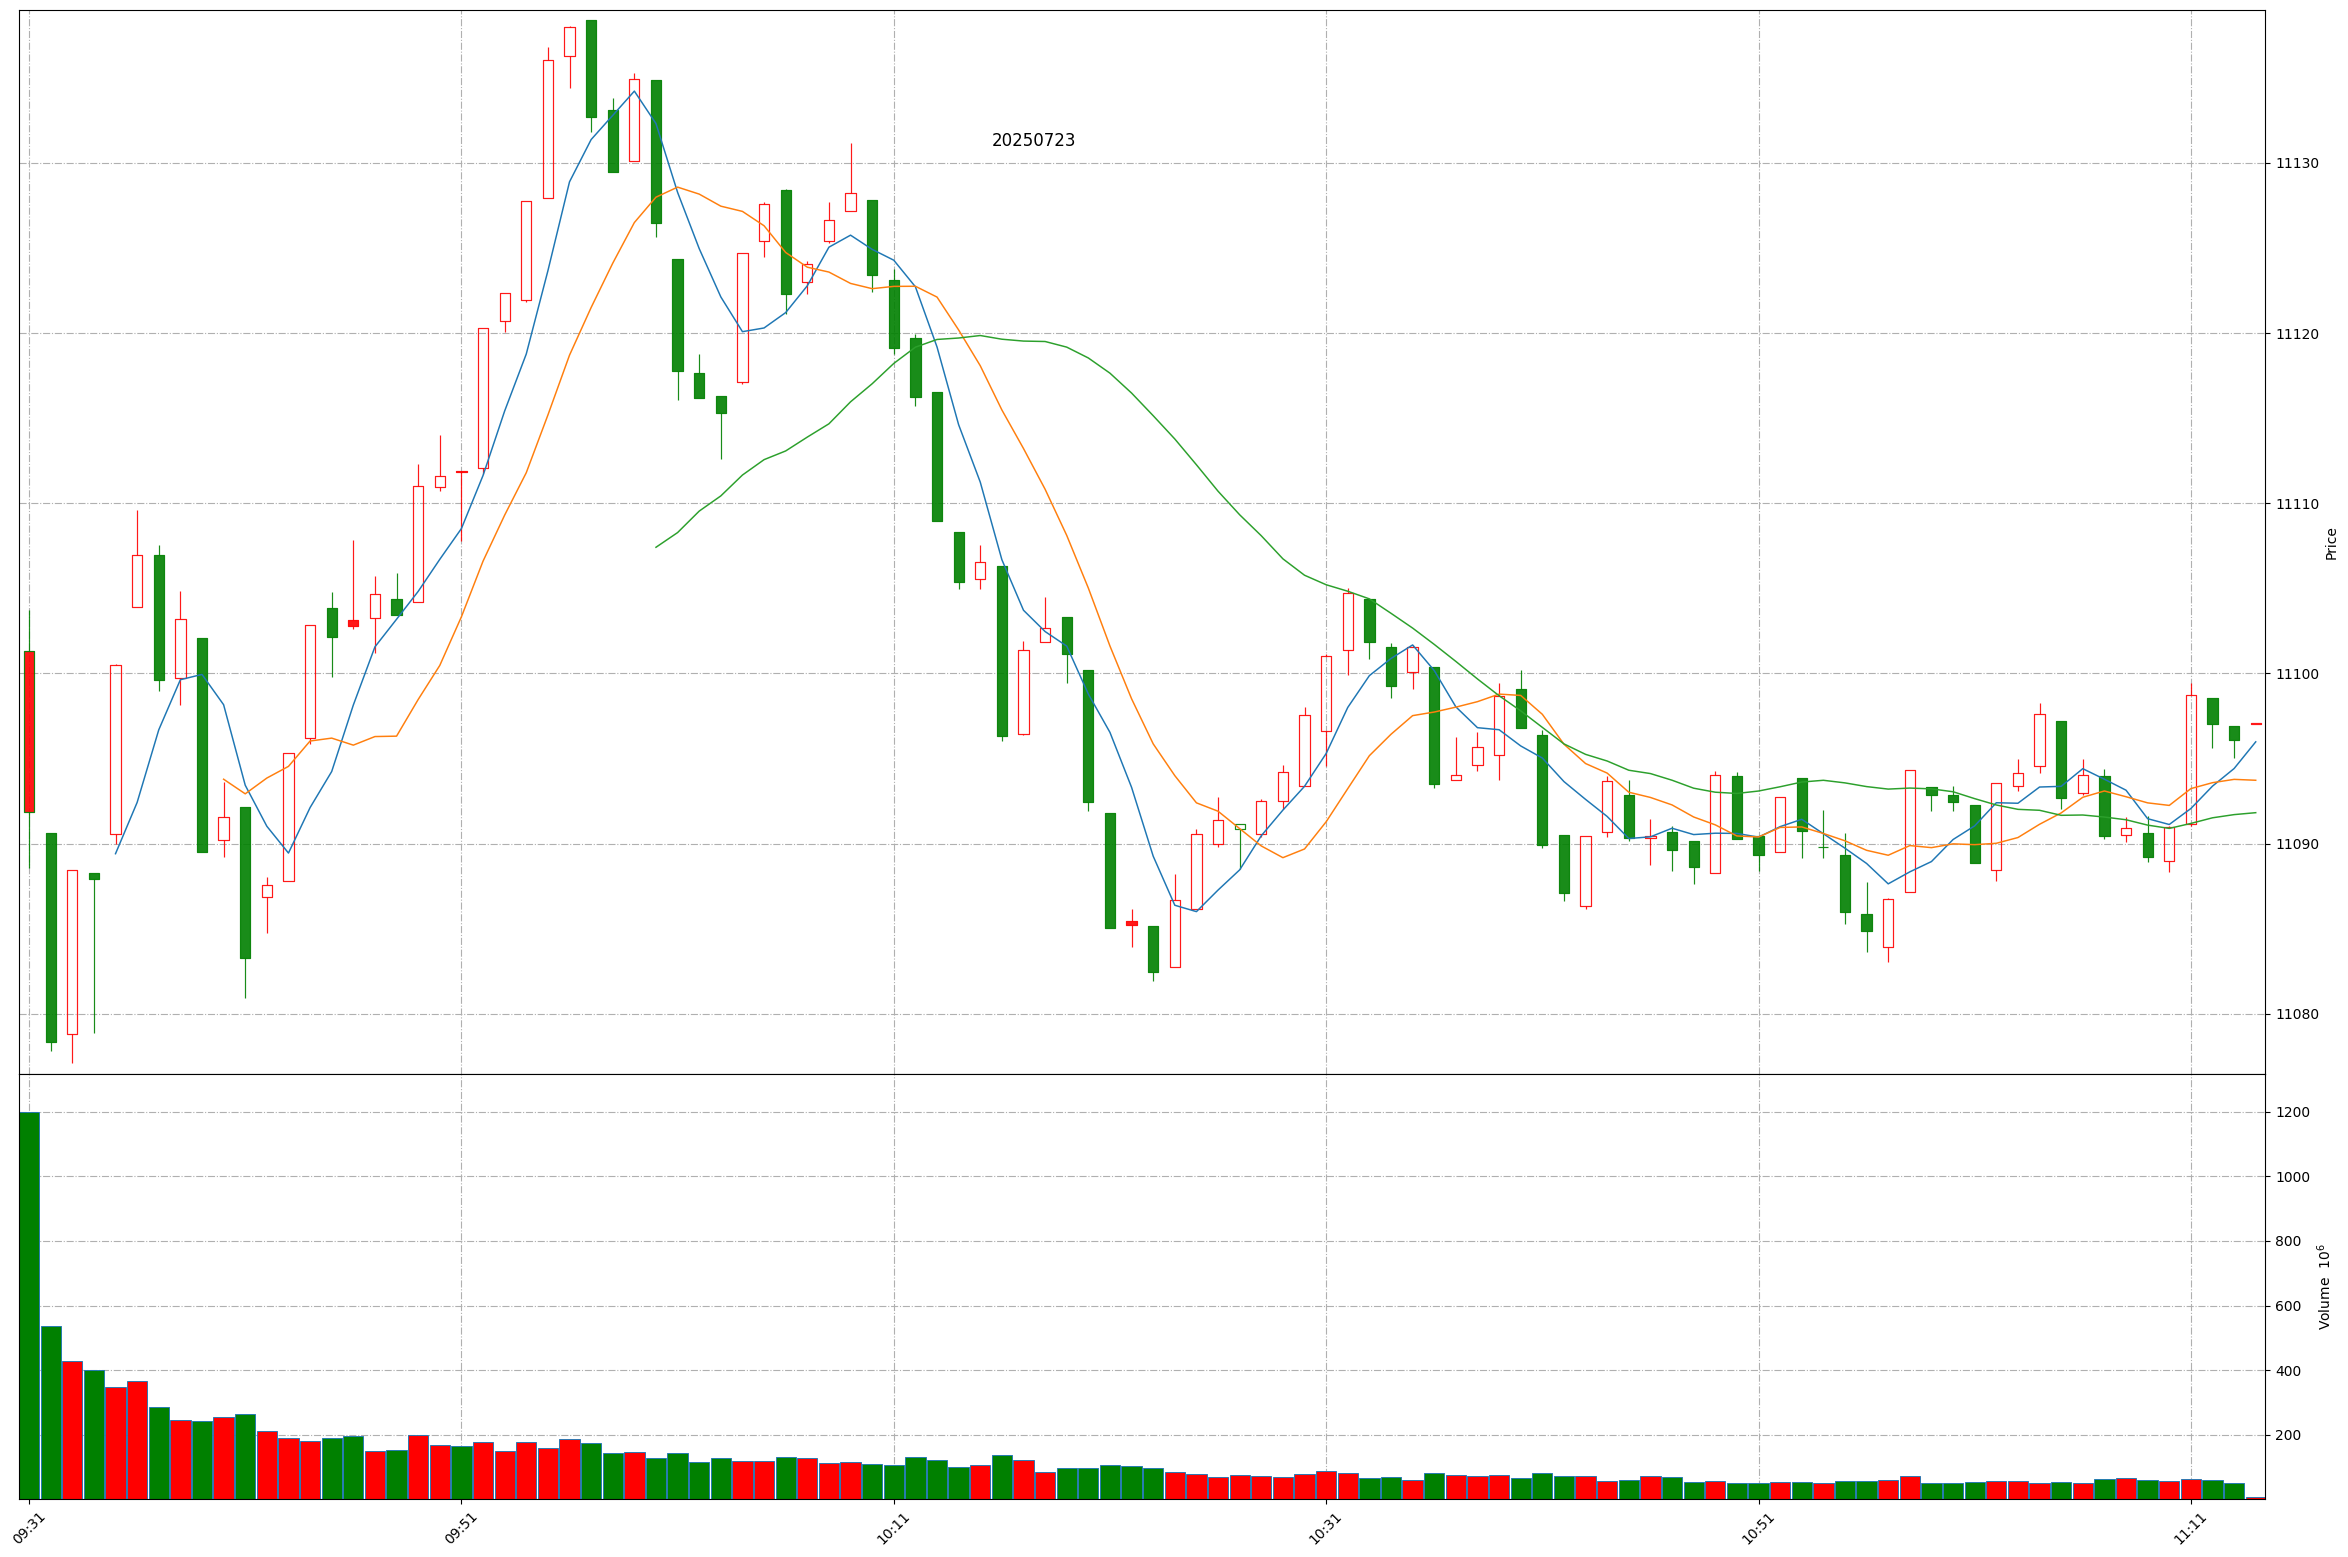
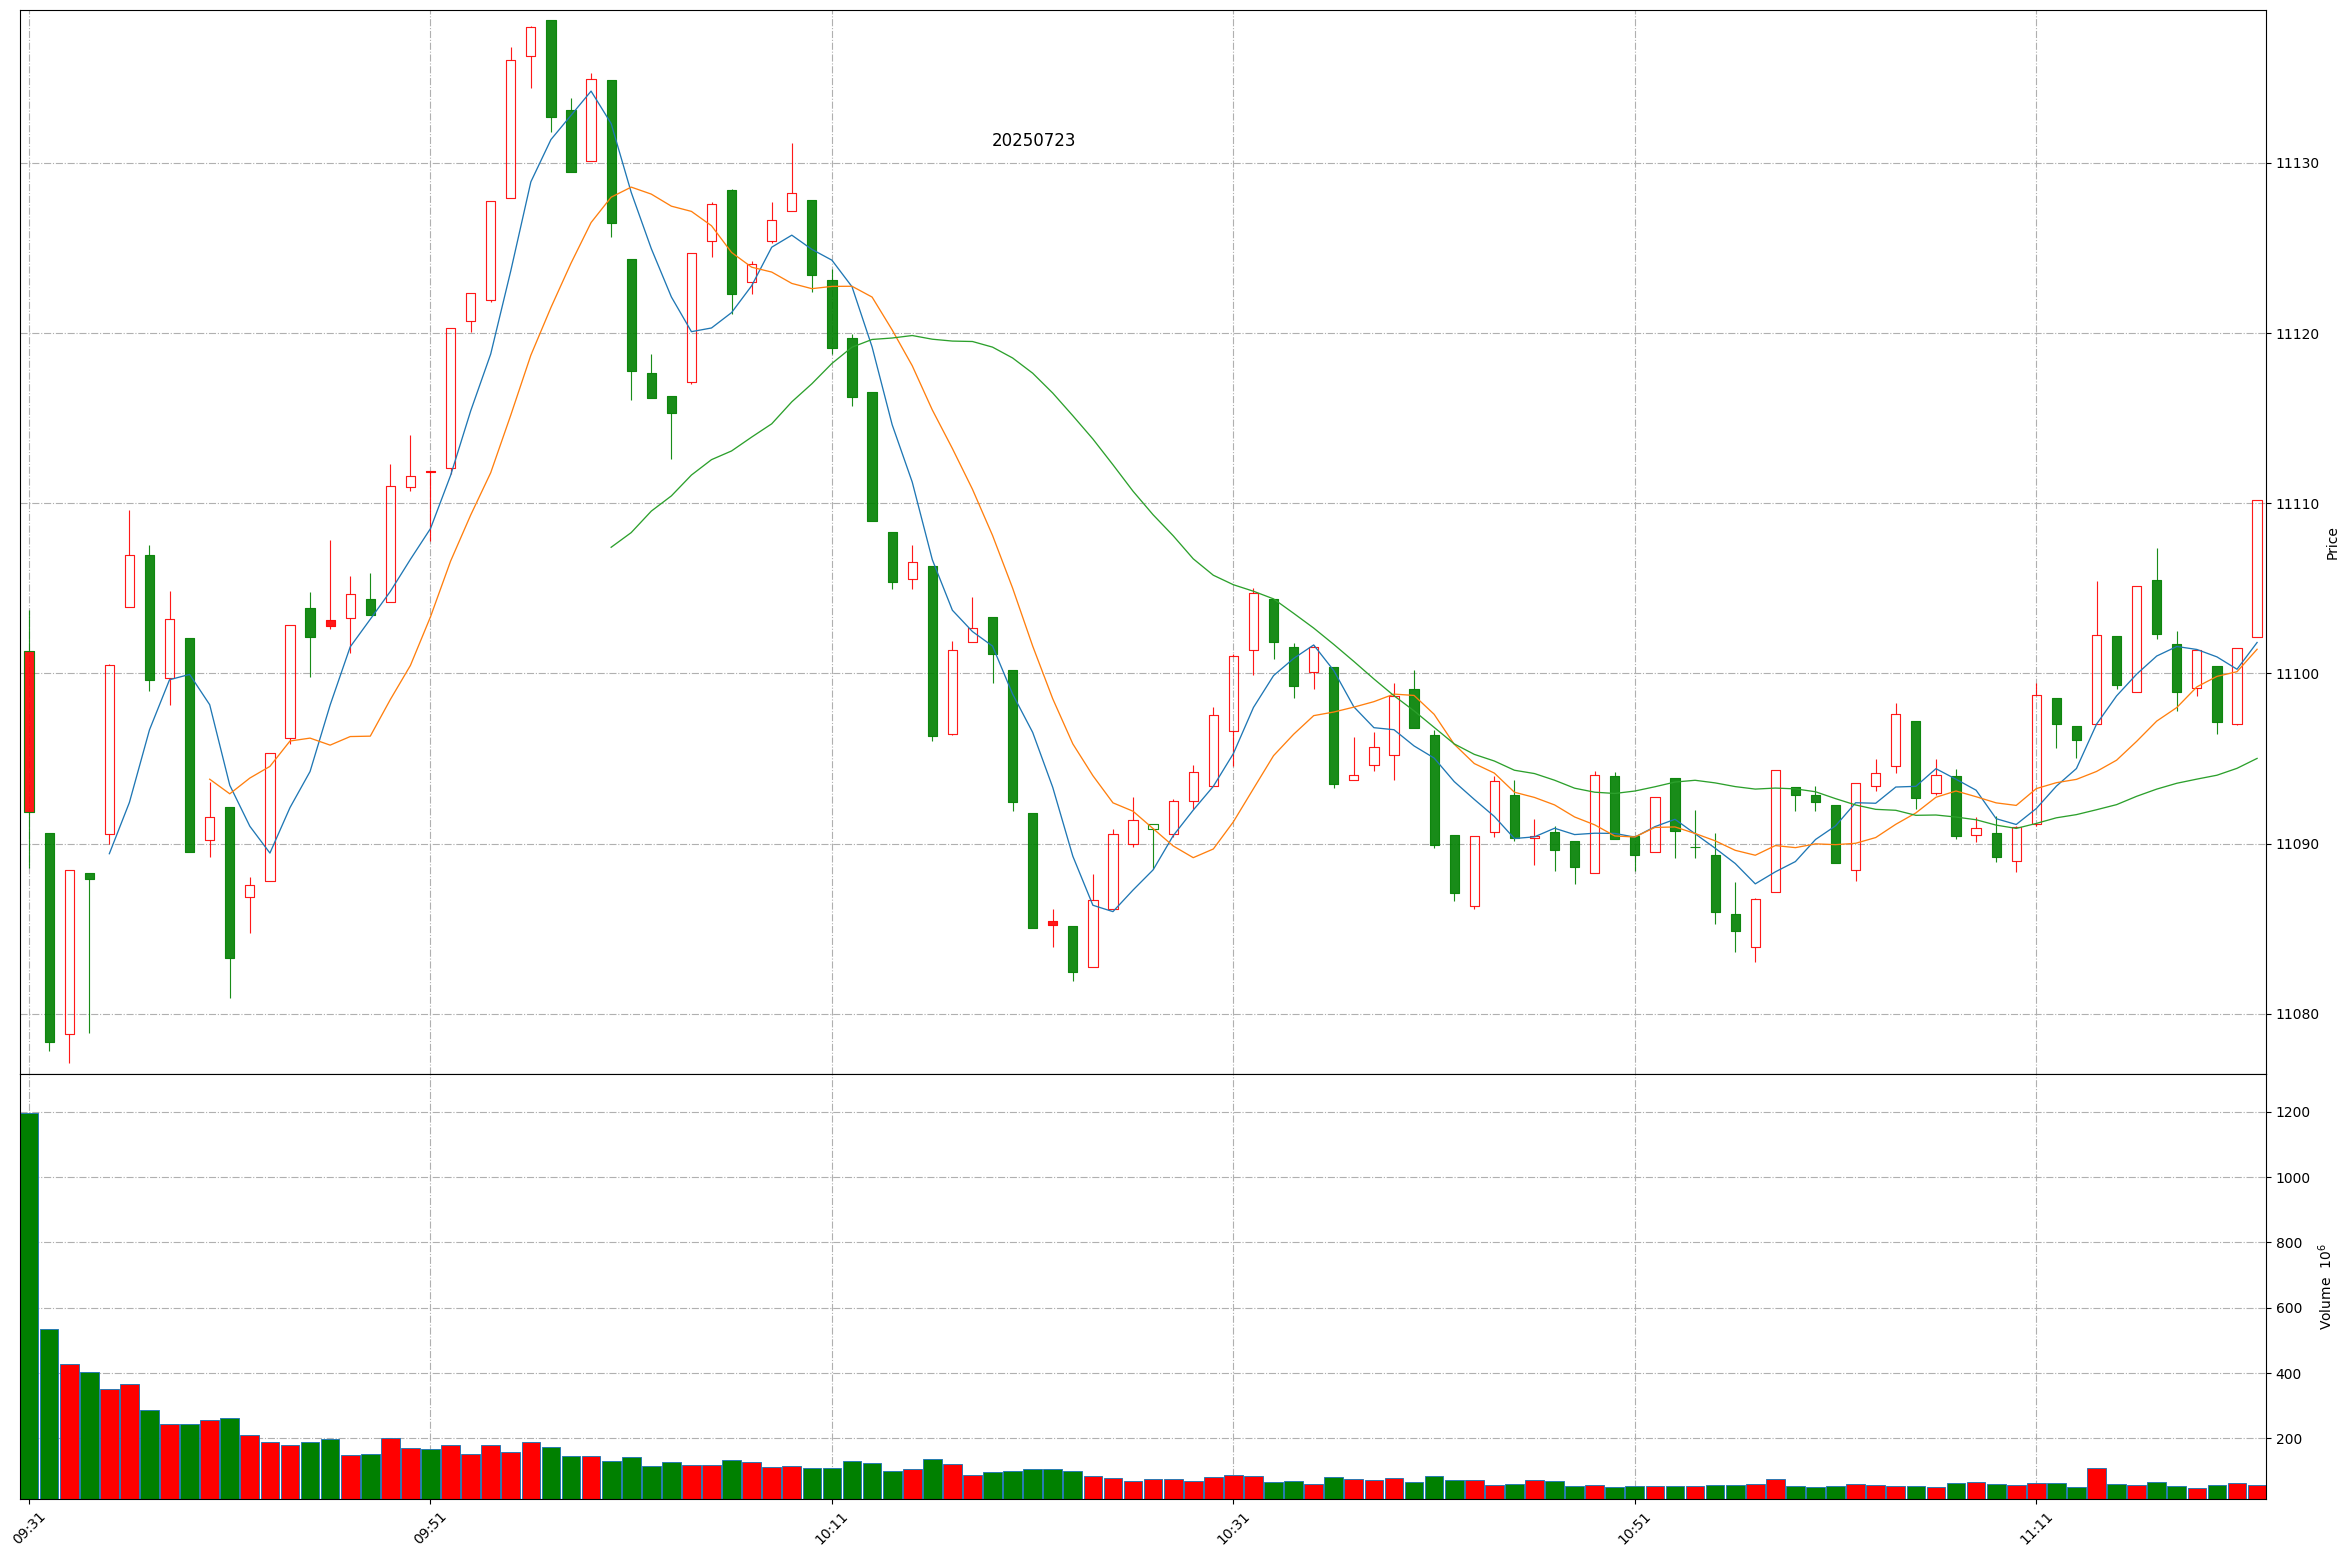
Github action update at 2025-07-23 11:22:04.

Changed region(s): [[0.0311, 0.0, 0.9638, 0.6166], [0.0, 0.8324, 0.9638, 0.9865]]

diff --git a/README.md b/README.md
@@ -1,11 +1,11 @@
 
 # Daily-A-share-market-quotes 每日 A 股指数（5min 更新）- 20250723
 
-### 上证指数 20250723 11:13
+### 上证指数 20250723 11:22
 ![](./fig/2025/7/20250723-sh000001.png)
 
-### 深证成指 20250723 11:13
+### 深证成指 20250723 11:22
 ![](./fig/2025/7/20250723-sz399001.png)
 
-### 北证50 20250723 11:13
+### 北证50 20250723 11:22
 ![](./fig/2025/7/20250723-bj899050.png)
